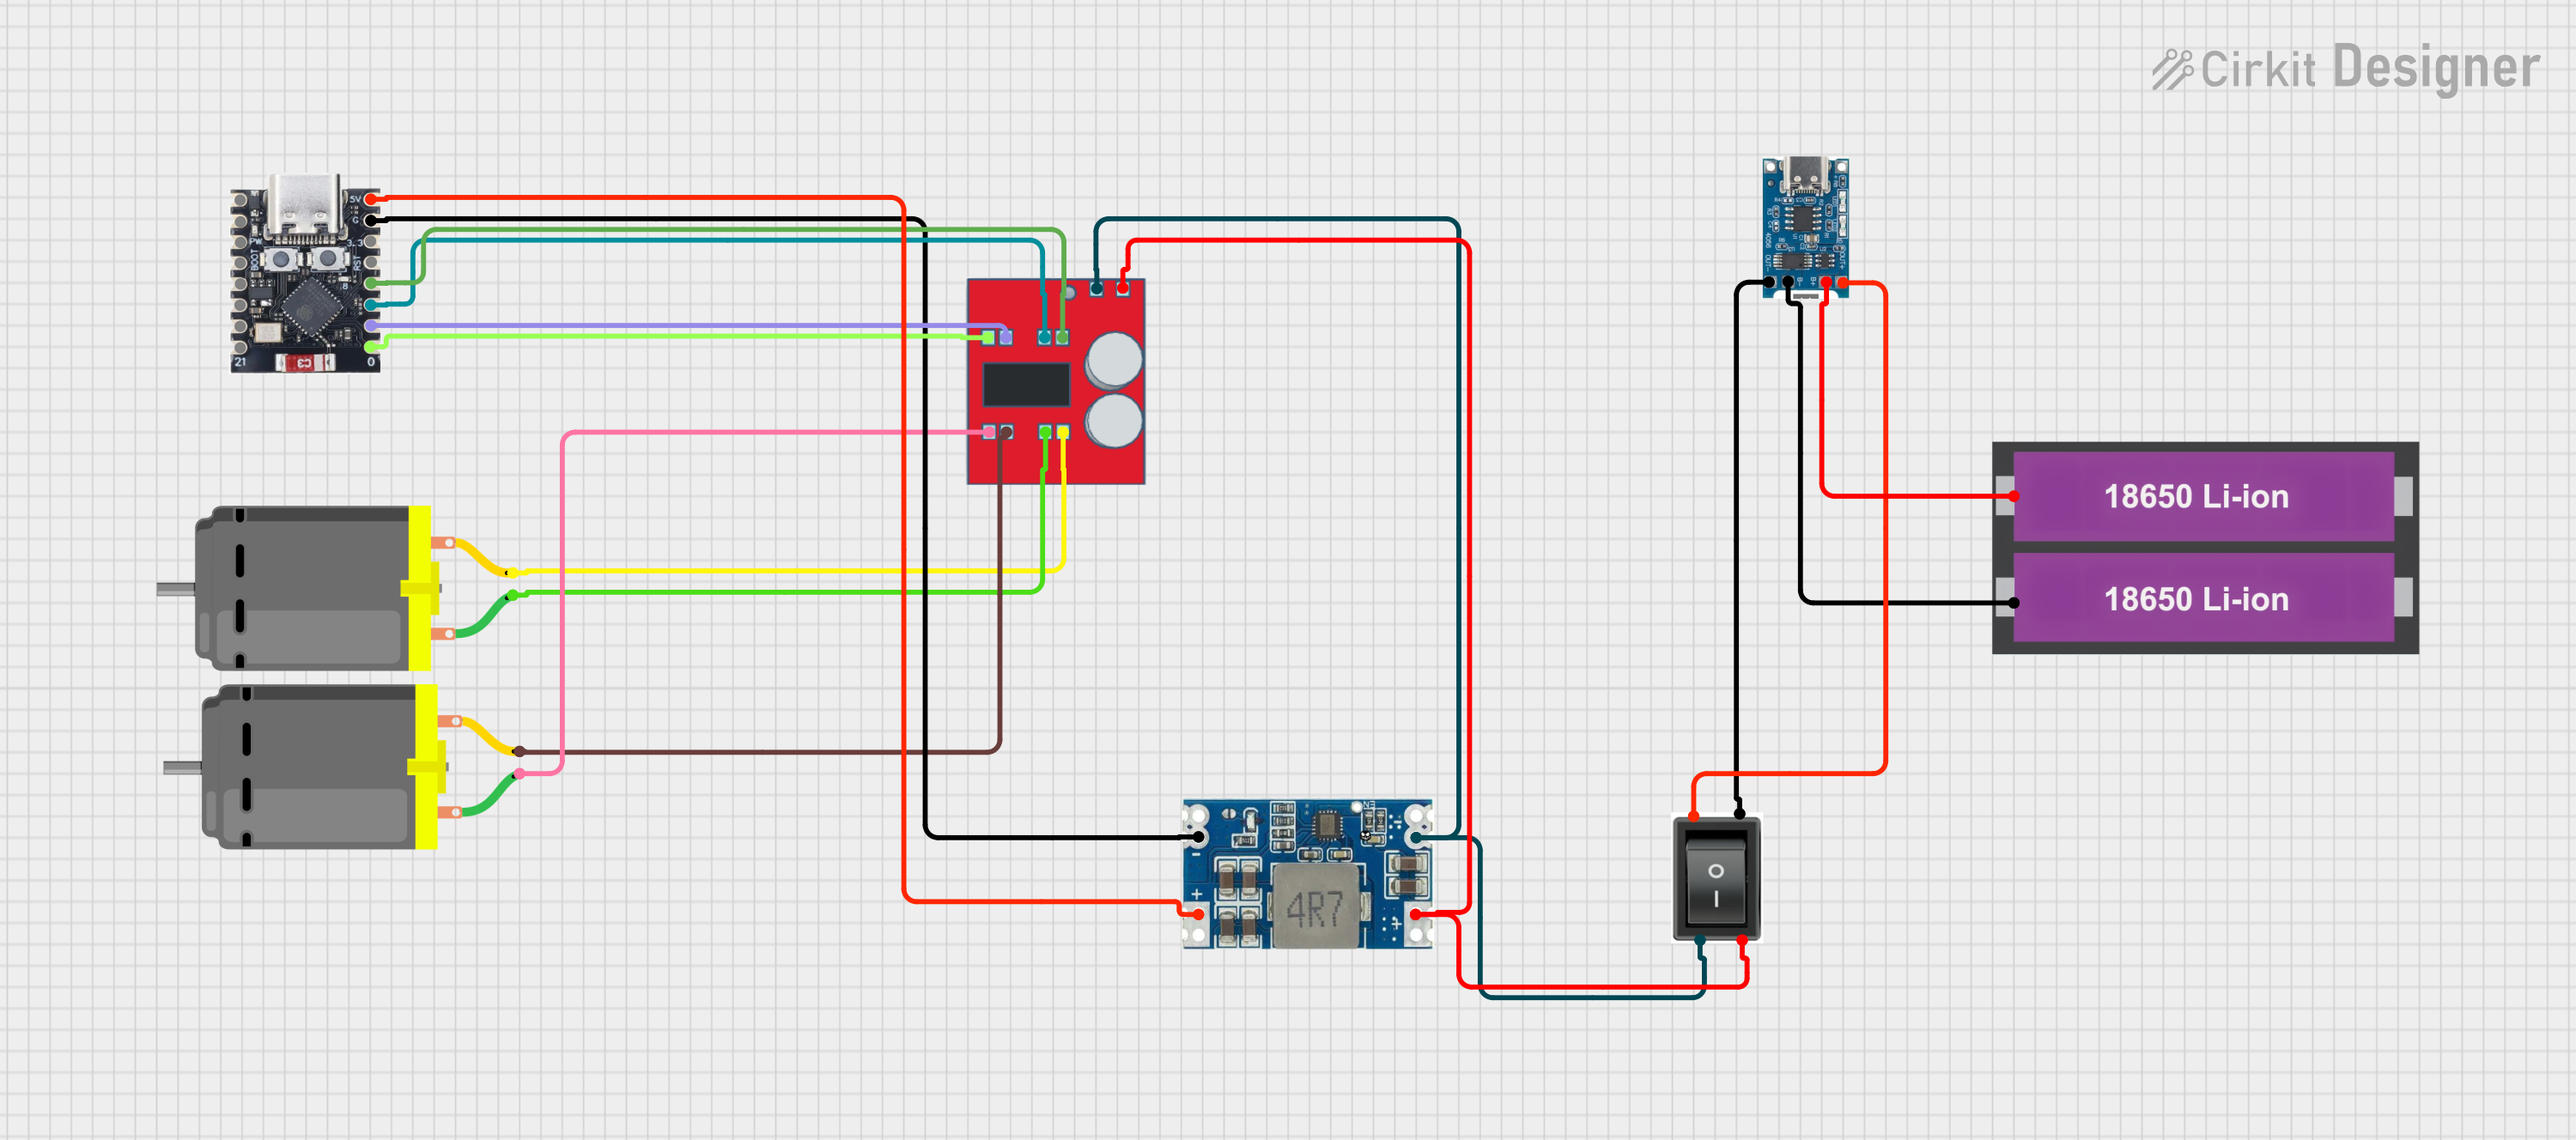
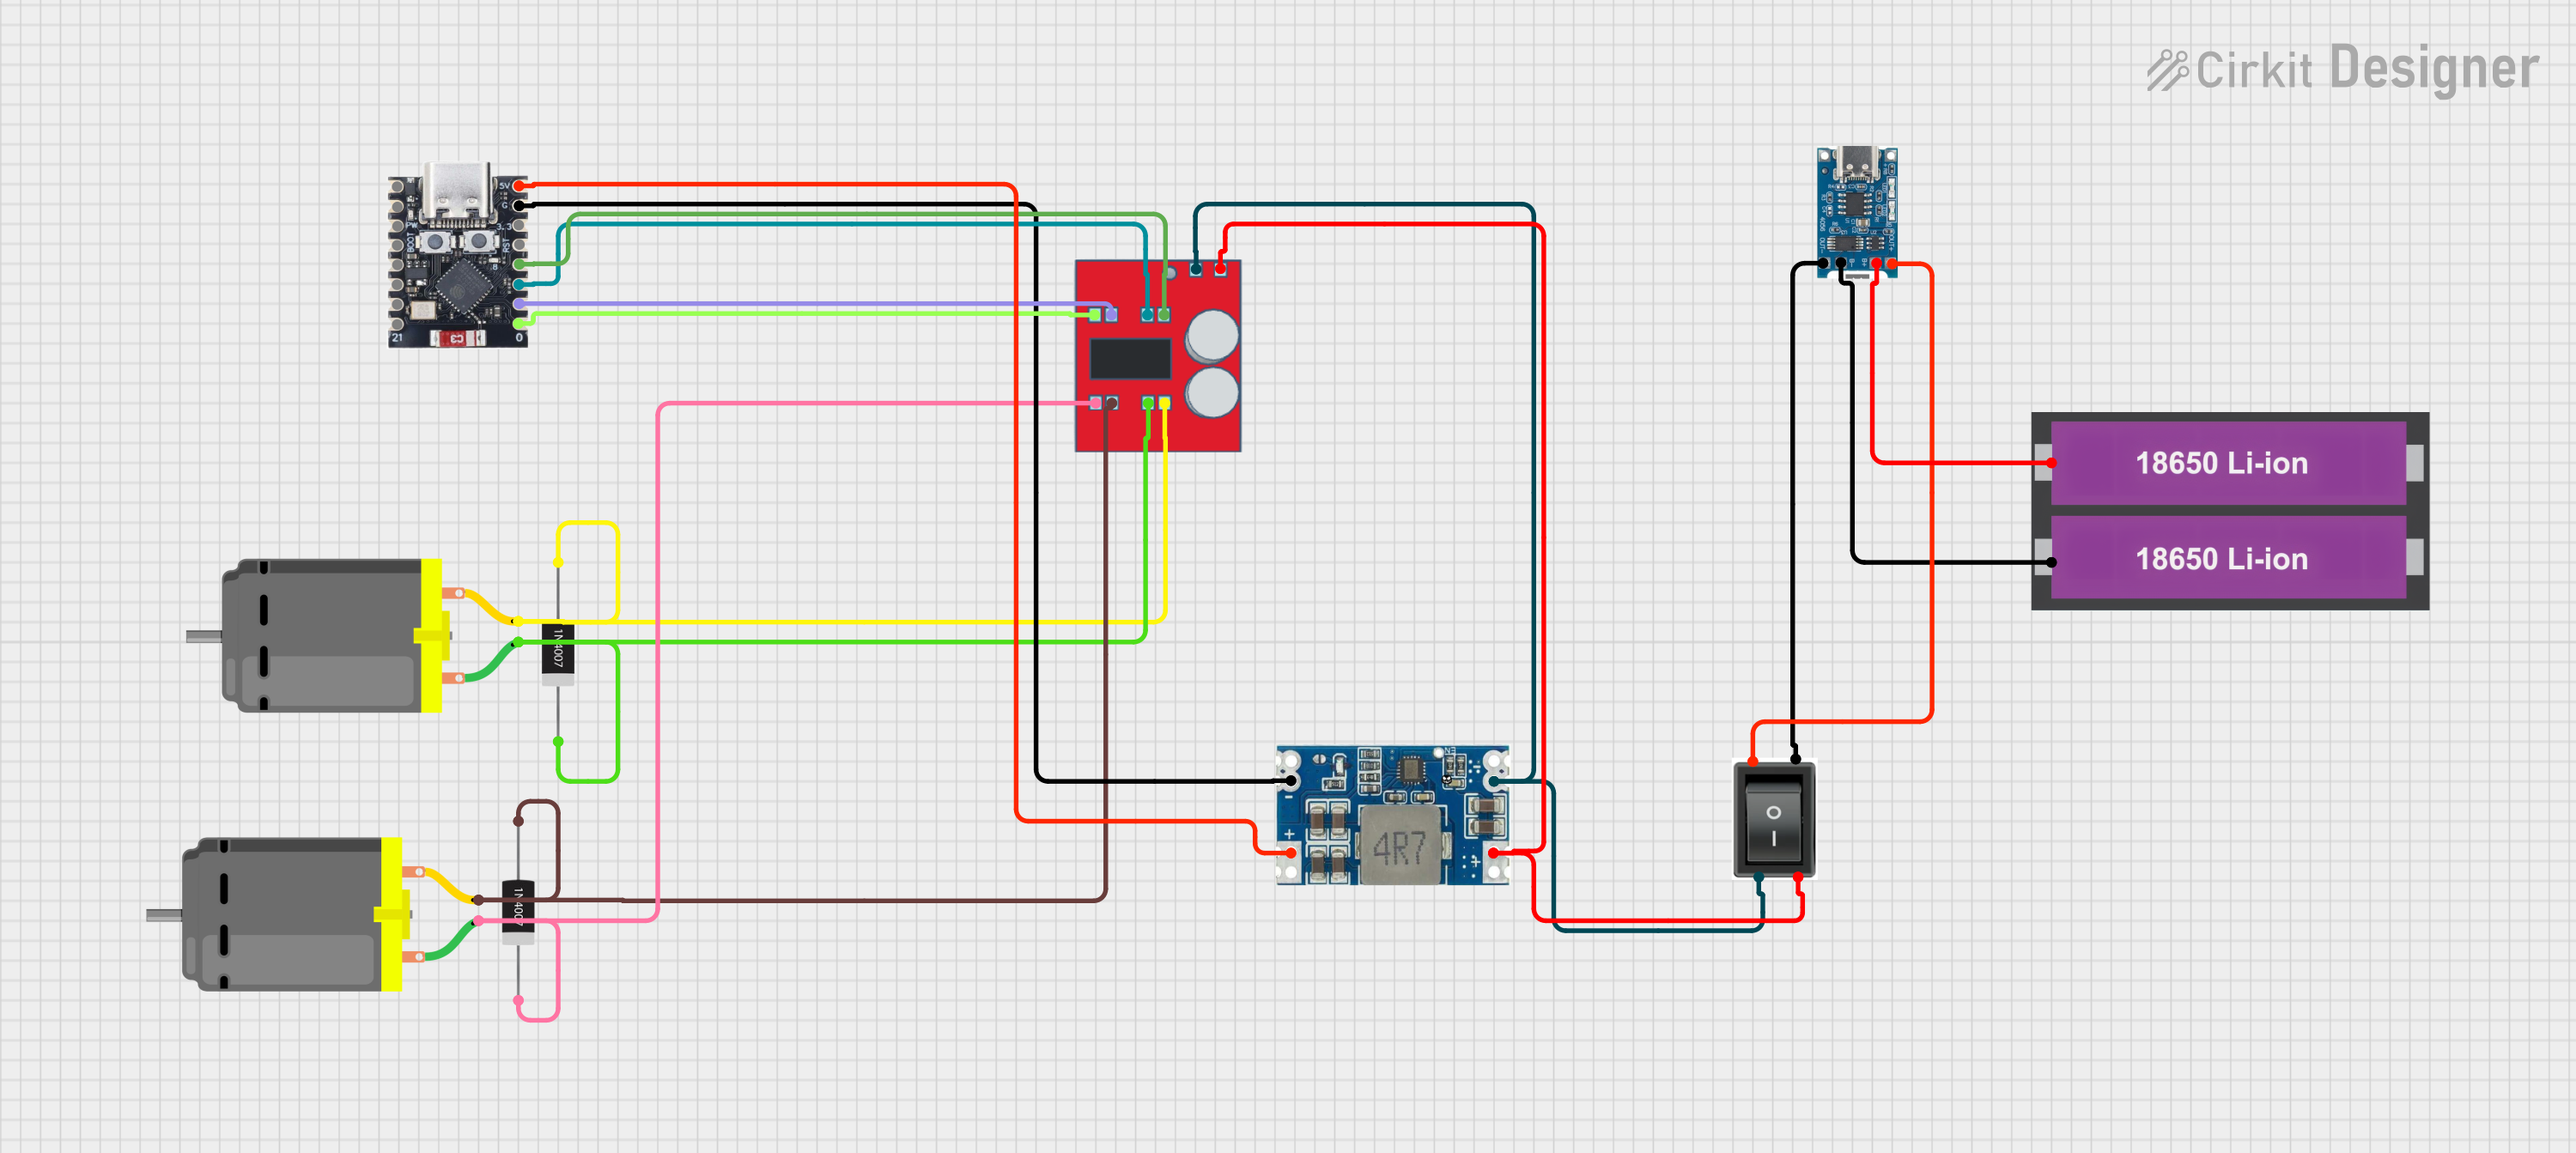
update circuit with diodes

Changed region(s): [[0.062, 0.1235, 0.961, 0.8953], [0.837, 0.0309, 0.961, 0.0926], [0.186, 0.8645, 0.217, 0.8953]]

diff --git a/README.md b/README.md
@@ -25,6 +25,8 @@ Esp32 2WD Car with Bluetooth Remote Control is an project that can avoid obstacl
 - **Hot glued**: For connection the wires/devices/motors with others components we used this project.
 - **Soldering iron**: For connection the wires with others components we used this board.
 
+- **2x 1N4007 Flyback Diodes**: One per motor, soldered in parallel (reverse-biased) across the motor terminals. They protect the MX1508 and the ESP32 from back-EMF voltage spikes generated when the motors brake or reverse direction.
+
 ## Following Hardware Steps
 
 1. I had an old toy car. We connected them using the screw provided with the chassis. Glue gun can be used to attach the motors to the base.
@@ -44,7 +46,7 @@ Esp32 2WD Car with Bluetooth Remote Control is an project that can avoid obstacl
 
 
 
-3. And repeated the process for the right motors and connected them to "out3" and "out4" of the motor driver.
+3. And repeated the process for the rear motor and connected it to "out3" and "out4" of the motor driver.
 
 4. After that we connected the two 18650 batteries in series through the HX-2S-A10 BMS (output ~8.4V). The BMS output goes to the motor driver positive terminal (12V marked port) to power the motors directly. We also connected the BMS output to a DC-DC buck step-down module that converts 8.4V to 5V. The 5V output from the buck module powers the ESP32 and other logic components. All grounds (battery/BMS, buck module, motor driver, ESP32) are connected together.
 
@@ -55,7 +57,8 @@ Esp32 2WD Car with Bluetooth Remote Control is an project that can avoid obstacl
 7. Install the Ultrasonic Sensor connect the GND to esp32 GND, VCC to 5V esp32, trig to D5 on esp32 and trigP to D18 on esp32.
 
 8.  Install the Led 5V device with GND to esp32 GND, VCC  to D19 on esp32.
-9. 
+
+9. Solder a **1N4007 flyback diode** in parallel across each motor terminals (reverse-biased: cathode/band side to the positive terminal, anode to the negative terminal). The MX1508 does not have built-in flyback diodes, so these protect the driver and the ESP32 from voltage spikes caused by back-EMF when the motors stop or change direction.
 
 
 ## Circuit Diagram
@@ -75,8 +78,15 @@ flowchart TD
         ESP["ESP32-C3\nWaveshare S3-Zero\n5V/VIN"]
     end
 
-    MOTOR_L["Left Motor\nOUT1 / OUT2"]
-    MOTOR_R["Right Motor\nOUT3 / OUT4"]
+    subgraph FRONT_MOTOR ["Front Motor Group"]
+        MOTOR_F["Front Motor\nOUT1 / OUT2"]
+        DIODE_F["1N4007 Flyback Diode\nCathode to OUT1 / Anode to OUT2"]
+    end
+
+    subgraph REAR_MOTOR ["Rear Motor Group"]
+        MOTOR_R["Rear Motor\nOUT3 / OUT4"]
+        DIODE_R["1N4007 Flyback Diode\nCathode to OUT3 / Anode to OUT4"]
+    end
 
     BAT -->|"B+ / B-"| BMS
     BMS -->|"OUT+ / OUT-"| SW
@@ -87,28 +97,35 @@ flowchart TD
     ESP -->|"GPIO 26/27\nPWM CH0/CH1"| MOTOR_DRV
     ESP -->|"GPIO 13/12\nPWM CH2/CH3"| MOTOR_DRV
 
-    MOTOR_DRV --> MOTOR_L
-    MOTOR_DRV --> MOTOR_R
+    MOTOR_DRV -->|"OUT1 / OUT2"| MOTOR_F
+    MOTOR_DRV -->|"OUT3 / OUT4"| MOTOR_R
+
+    DIODE_F -.-|"parallel\nreverse-biased"| MOTOR_F
+    DIODE_R -.-|"parallel\nreverse-biased"| MOTOR_R
 
     style BAT fill:#f9f,stroke:#333
     style BMS fill:#ffa,stroke:#333
     style BUCK fill:#aff,stroke:#333
     style ESP fill:#adf,stroke:#333
     style MOTOR_DRV fill:#fda,stroke:#333
-    style MOTOR_L fill:#ddd,stroke:#333
+    style MOTOR_F fill:#ddd,stroke:#333
     style MOTOR_R fill:#ddd,stroke:#333
+    style DIODE_F fill:#fcc,stroke:#c33
+    style DIODE_R fill:#fcc,stroke:#c33
     style POWER_8V fill:#fff3e0,stroke:#e65100
     style POWER_5V fill:#e3f2fd,stroke:#1565c0
+    style FRONT_MOTOR fill:#f5f5f5,stroke:#666
+    style REAR_MOTOR fill:#f5f5f5,stroke:#666
 ```
 
 > **Note:** GND is shared between all components (BMS, Buck Step-Down, MX1508, ESP32-C3).
 >
 > | ESP32 GPIO | MX1508 Pin | Function |
 > |---|---|---|
-> | GPIO 26 | IN1 | Left Motor Forward |
-> | GPIO 27 | IN2 | Left Motor Backward |
-> | GPIO 13 | IN3 | Right Motor Forward |
-> | GPIO 12 | IN4 | Right Motor Backward |
+> | GPIO 26 | IN1 | Front Motor Forward |
+> | GPIO 27 | IN2 | Front Motor Backward |
+> | GPIO 13 | IN3 | Rear Motor Forward |
+> | GPIO 12 | IN4 | Rear Motor Backward |
 
 <table>
   <tr valign="middle">
@@ -117,6 +134,10 @@ flowchart TD
       <div>
         <a href="https://app.cirkitdesigner.com/project/4d7fd9ed-47f0-43c8-8ef2-58eadbf371e6">circuit scheme link</a>
       </div>
+    </td>
+    <td halign="center">
+      <img src="./assets/circuit_with_diodes.svg" alt="circuit_diagram_with_flyback_diodes" height="450">
+      <div>Circuit with flyback diodes (1N4007)</div>
     </td>
   </tr>
 </table>
